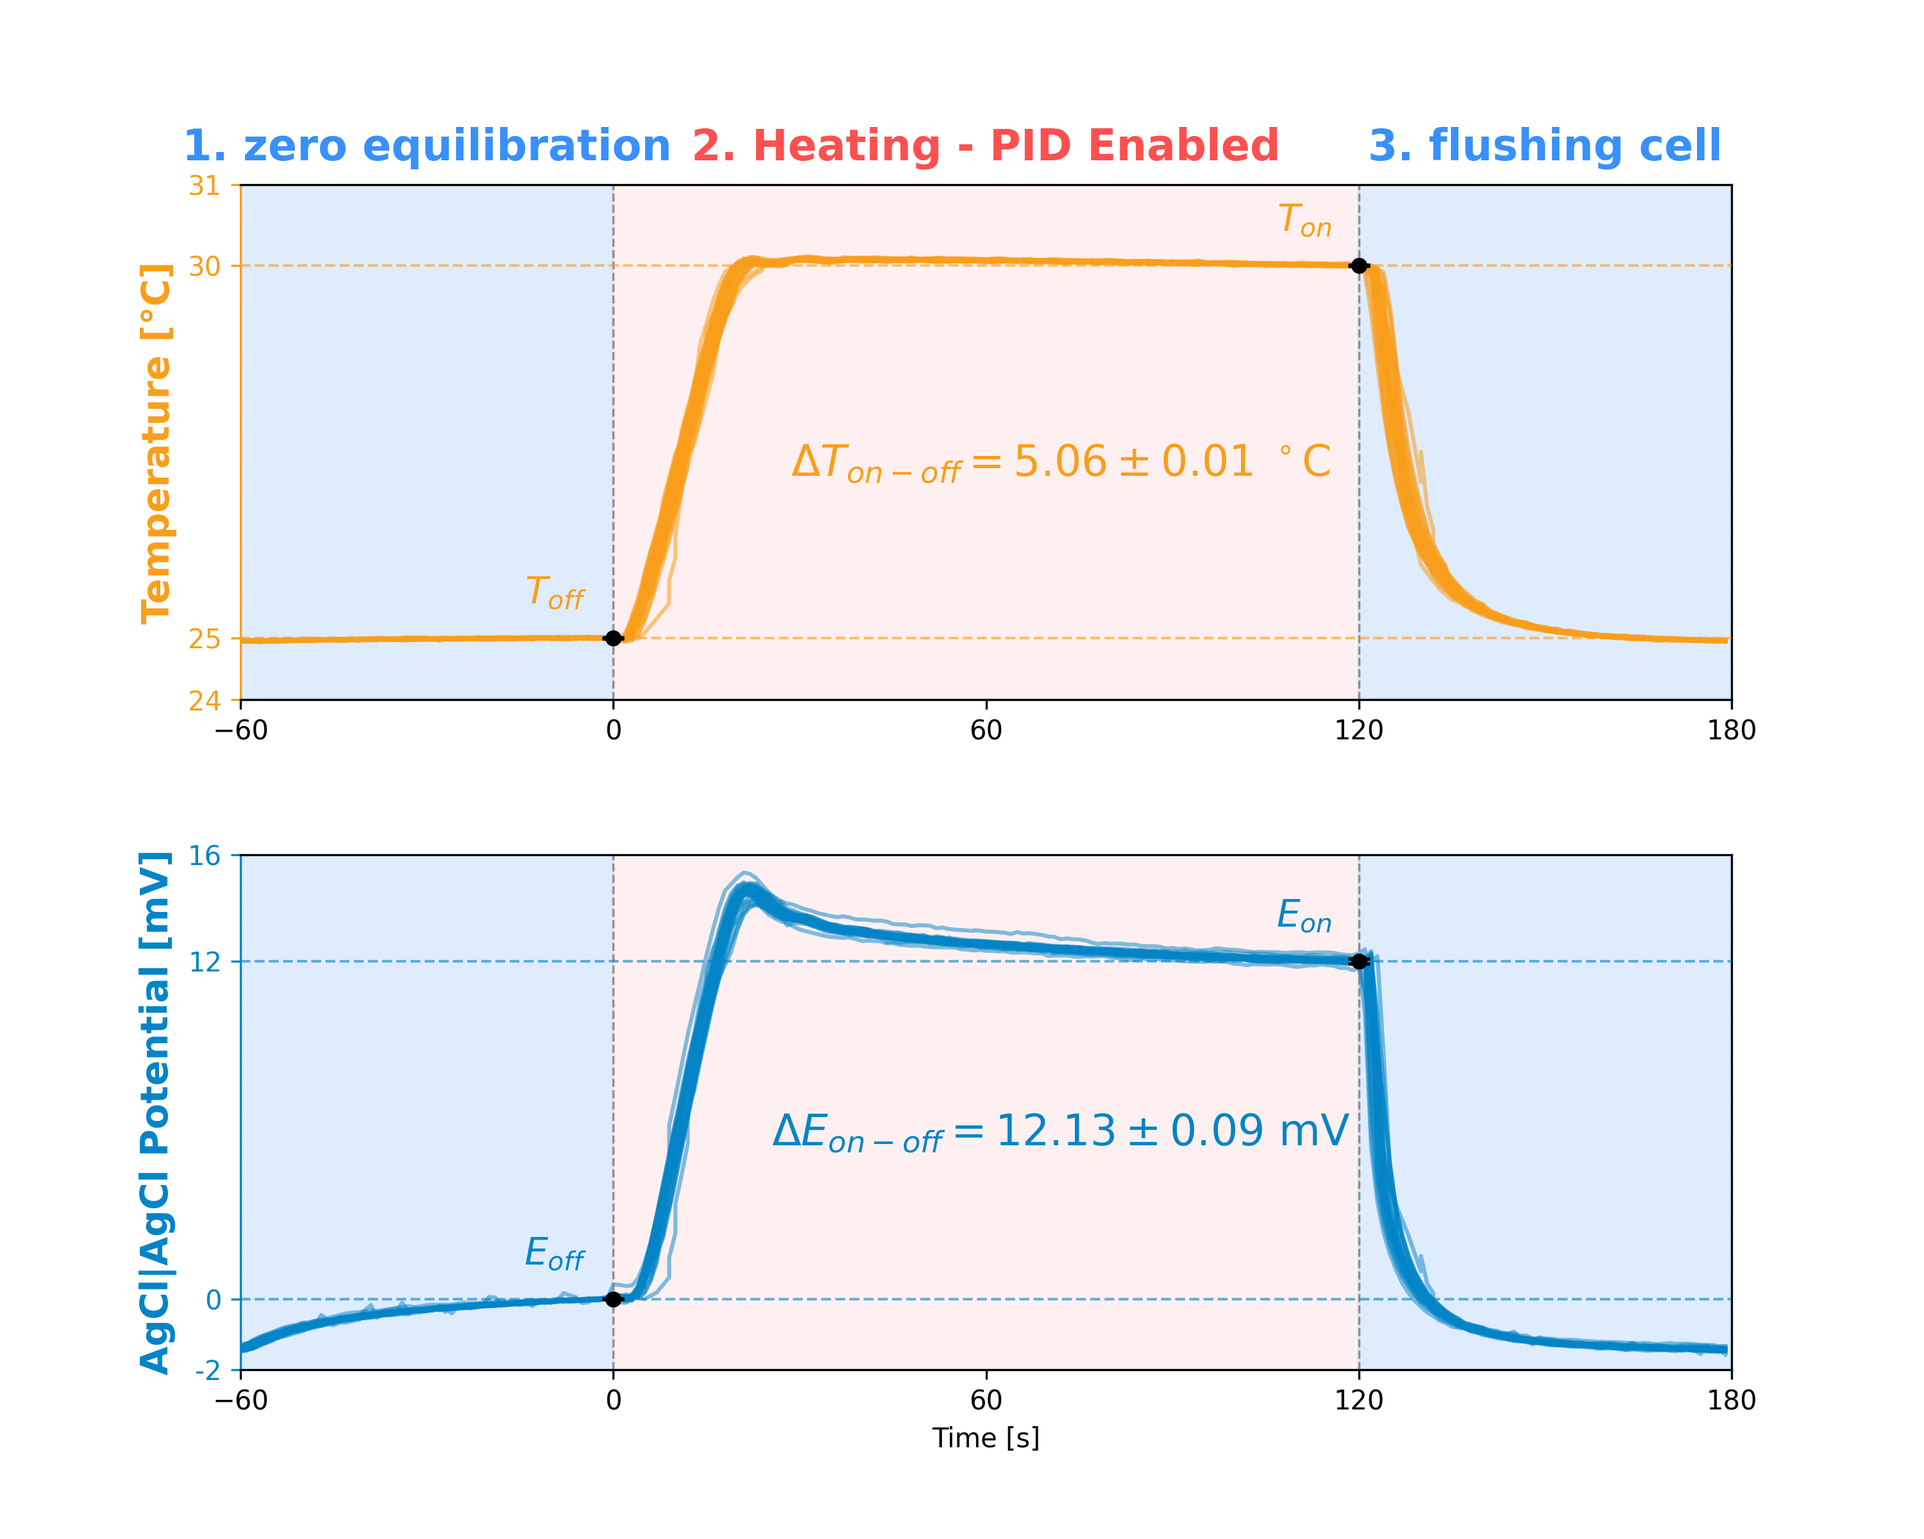
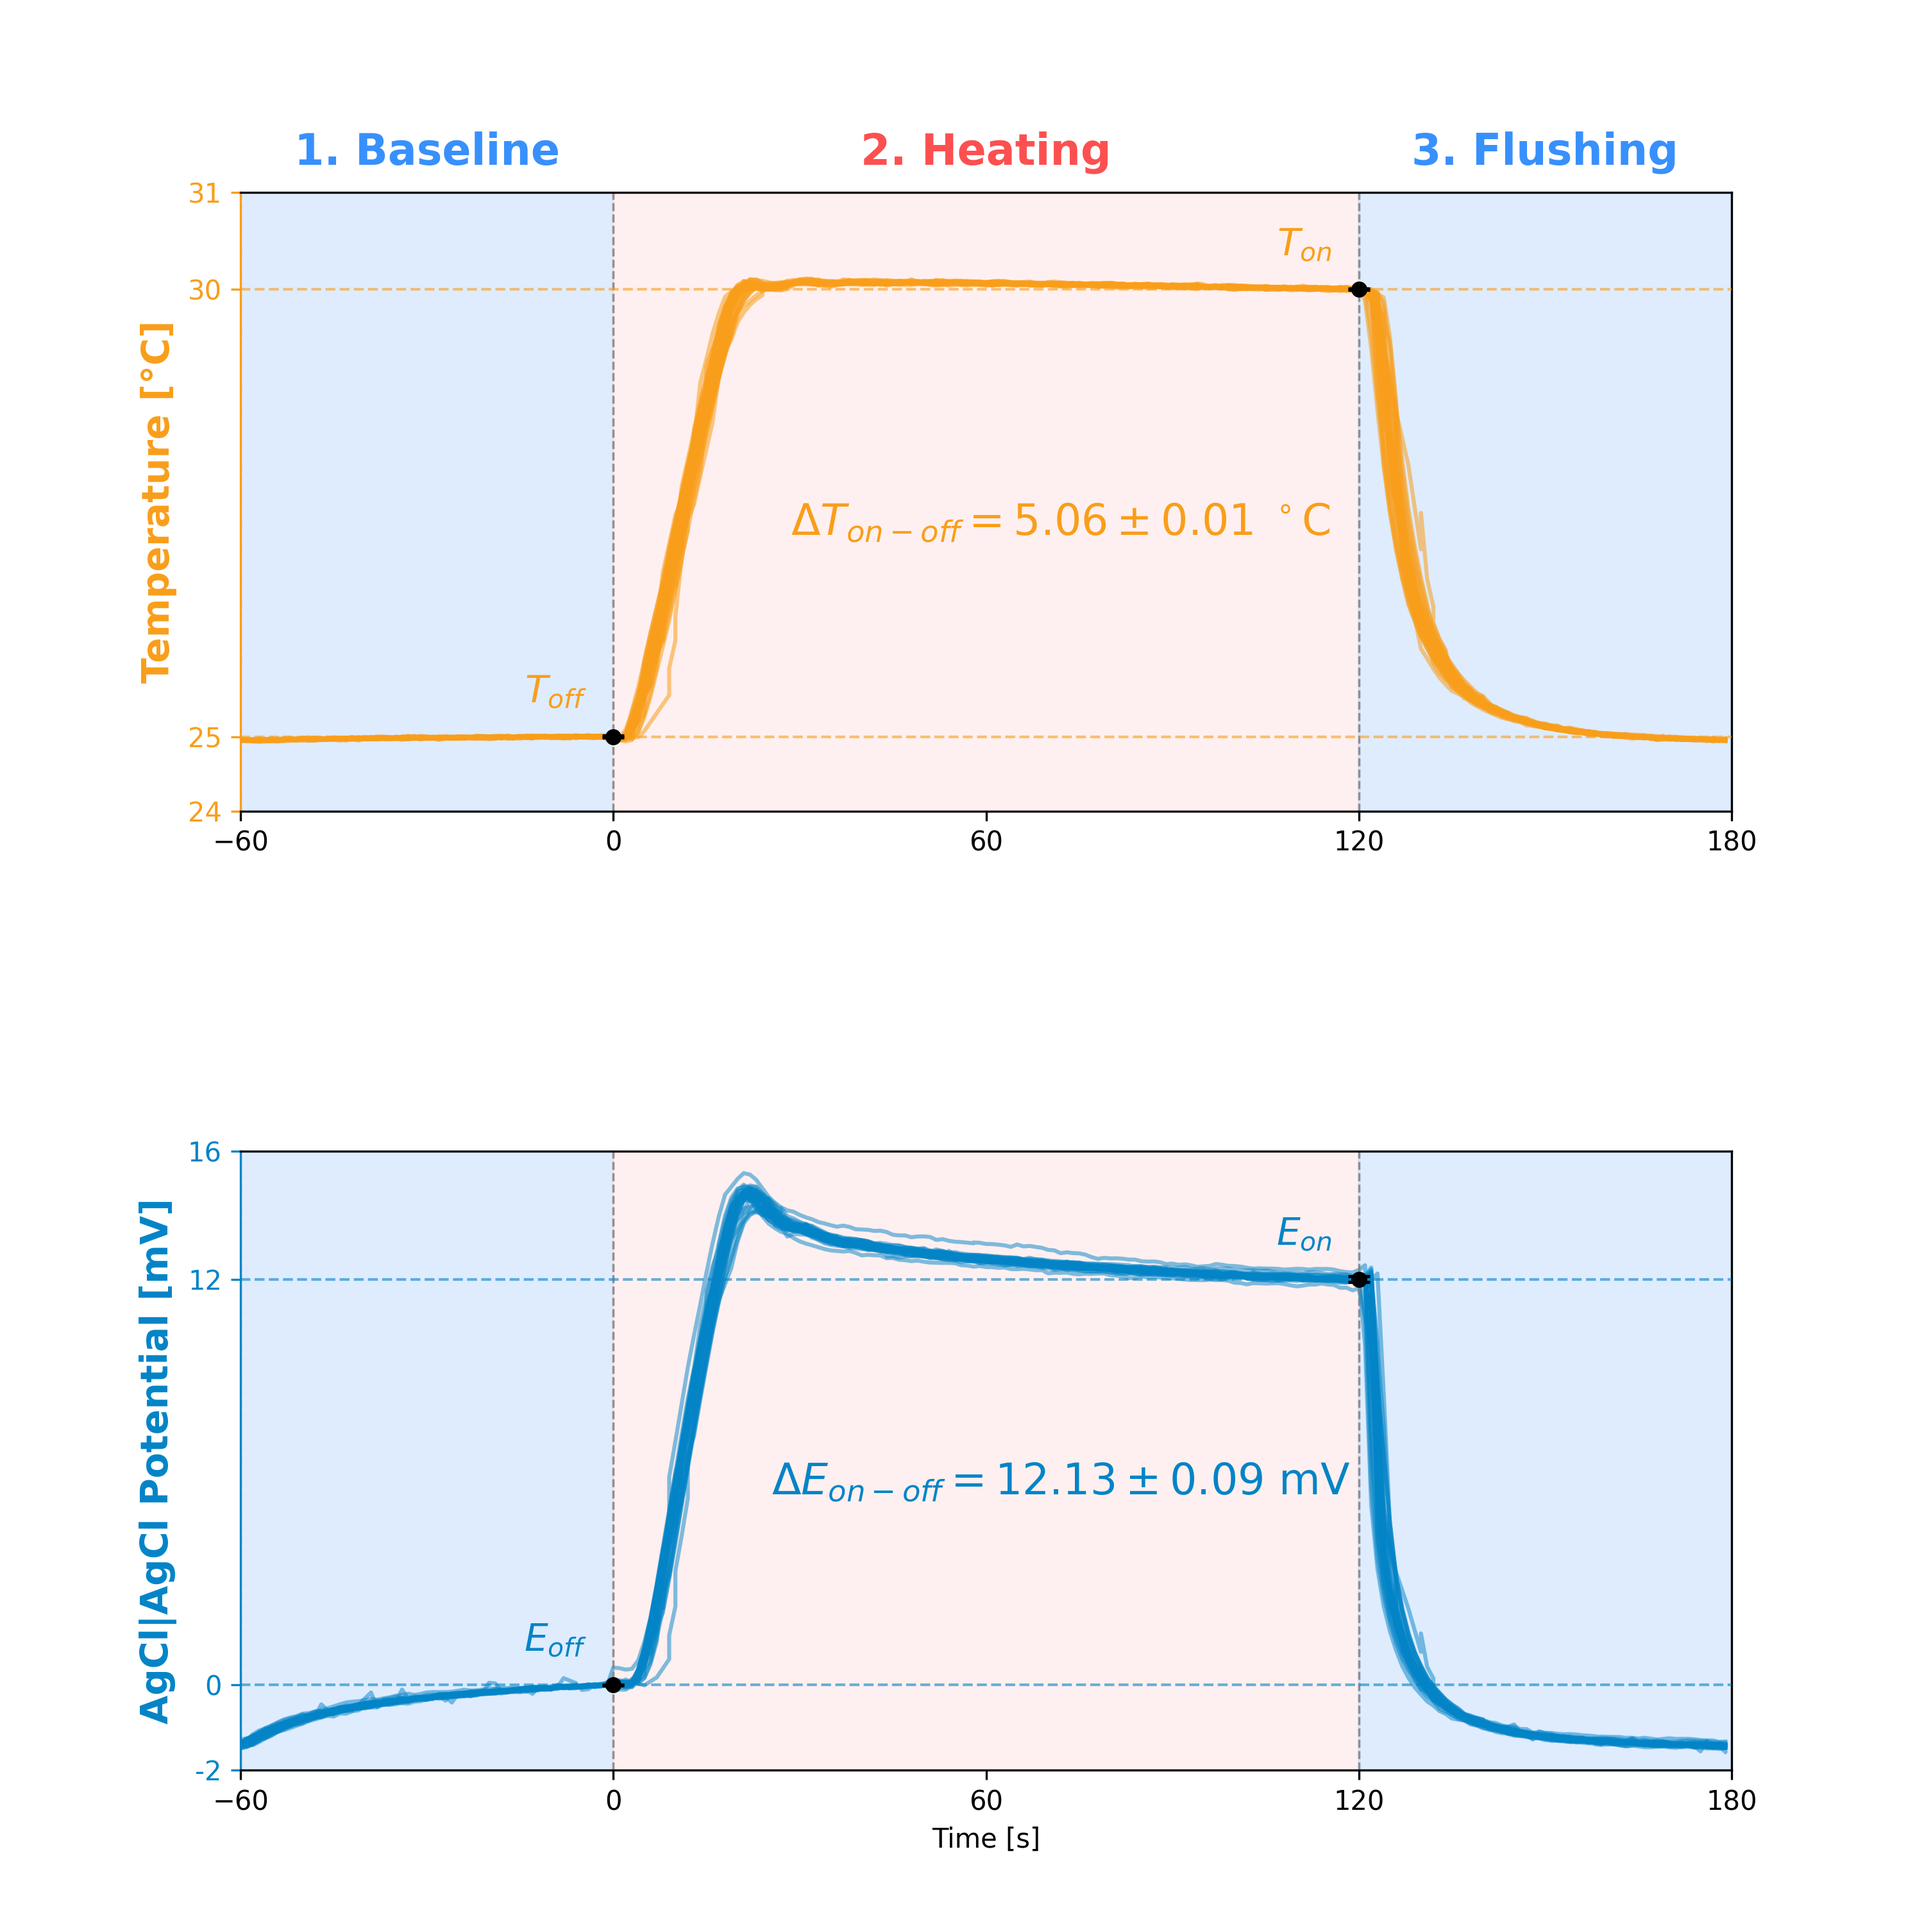
pulse figure improvements

diff --git a/Figure 2 - Open vs Closed Loop Pulses/FIG - Pulse Sequence/deltaPulseSeq.py b/Figure 2 - Open vs Closed Loop Pulses/FIG - Pulse Sequence/deltaPulseSeq.py
@@ -143,7 +143,13 @@ delta_cp_std = np.std(delta_cp_list)
 # 3. Plot Generation
 # ==========================================
 plt.rcdefaults()
-fig, (ax1, ax2) = plt.subplots(2, 1, sharex=True, figsize=(10, 8))
+
+fig, (ax1, ax2) = plt.subplots(
+    2, 1, 
+    sharex=True, 
+    figsize=(10, 10),
+    gridspec_kw={'hspace': 0.55}  # Creates whitespace between ax1 and ax2
+)
 
 pcb_orange = '#f99e1a'
 
@@ -241,9 +247,9 @@ ax2.yaxis.set_major_formatter(ticker.FormatStrFormatter('%.0f'))
 # Phase Labels directly above ax1
 trans_inter = mtransforms.blended_transform_factory(ax1.transData, ax1.transAxes)
 phase_labels = [
-    (-30.0, "1. zero equilibration", "#3890fc"),
-    (60.0, "2. Heating - PID Enabled", "#fc5050"),
-    (150.0, "3. flushing cell", '#3890fc'),
+    (-30.0, "1. Baseline", "#3890fc"),
+    (60.0, "2. Heating", "#fc5050"),
+    (150.0, "3. Flushing", '#3890fc'),
 ]
 
 y_position = 1.03  # Positions labels just above the top edge of ax1 frame
@@ -262,6 +268,8 @@ for x_time, label_text, textColor in phase_labels:
         clip_on=False,
     )
 
-plt.subplots_adjust(top=0.88, hspace=0.3)
+# Adjust top margin so the top phase labels fit, leaving bottom space open
+plt.subplots_adjust(top=0.90, bottom=0.08)
+
 plt.savefig('closed_loop_pulses_merged.png', dpi=300)
 plt.show()

diff --git a/Figure 2 - Open vs Closed Loop Pulses/FIG - Pulse Sequence/rollingDeviation.py b/Figure 2 - Open vs Closed Loop Pulses/FIG - Pulse Sequence/rollingDeviation.py
@@ -128,7 +128,7 @@ cp_off_mean, cp_off_std = np.mean(
 # ==========================================
 # 3. MANUAL TIME WINDOW DEFINITIONS & STATS
 # ==========================================
-win_max_bounds = (110.0, 115.0)  # Max Window Bounds (s)
+win_max_bounds = (80, 115.0)  # Max Window Bounds (s)
 win_min_bounds = (235.0, 240.0)  # Min Window Bounds (s)
 
 
